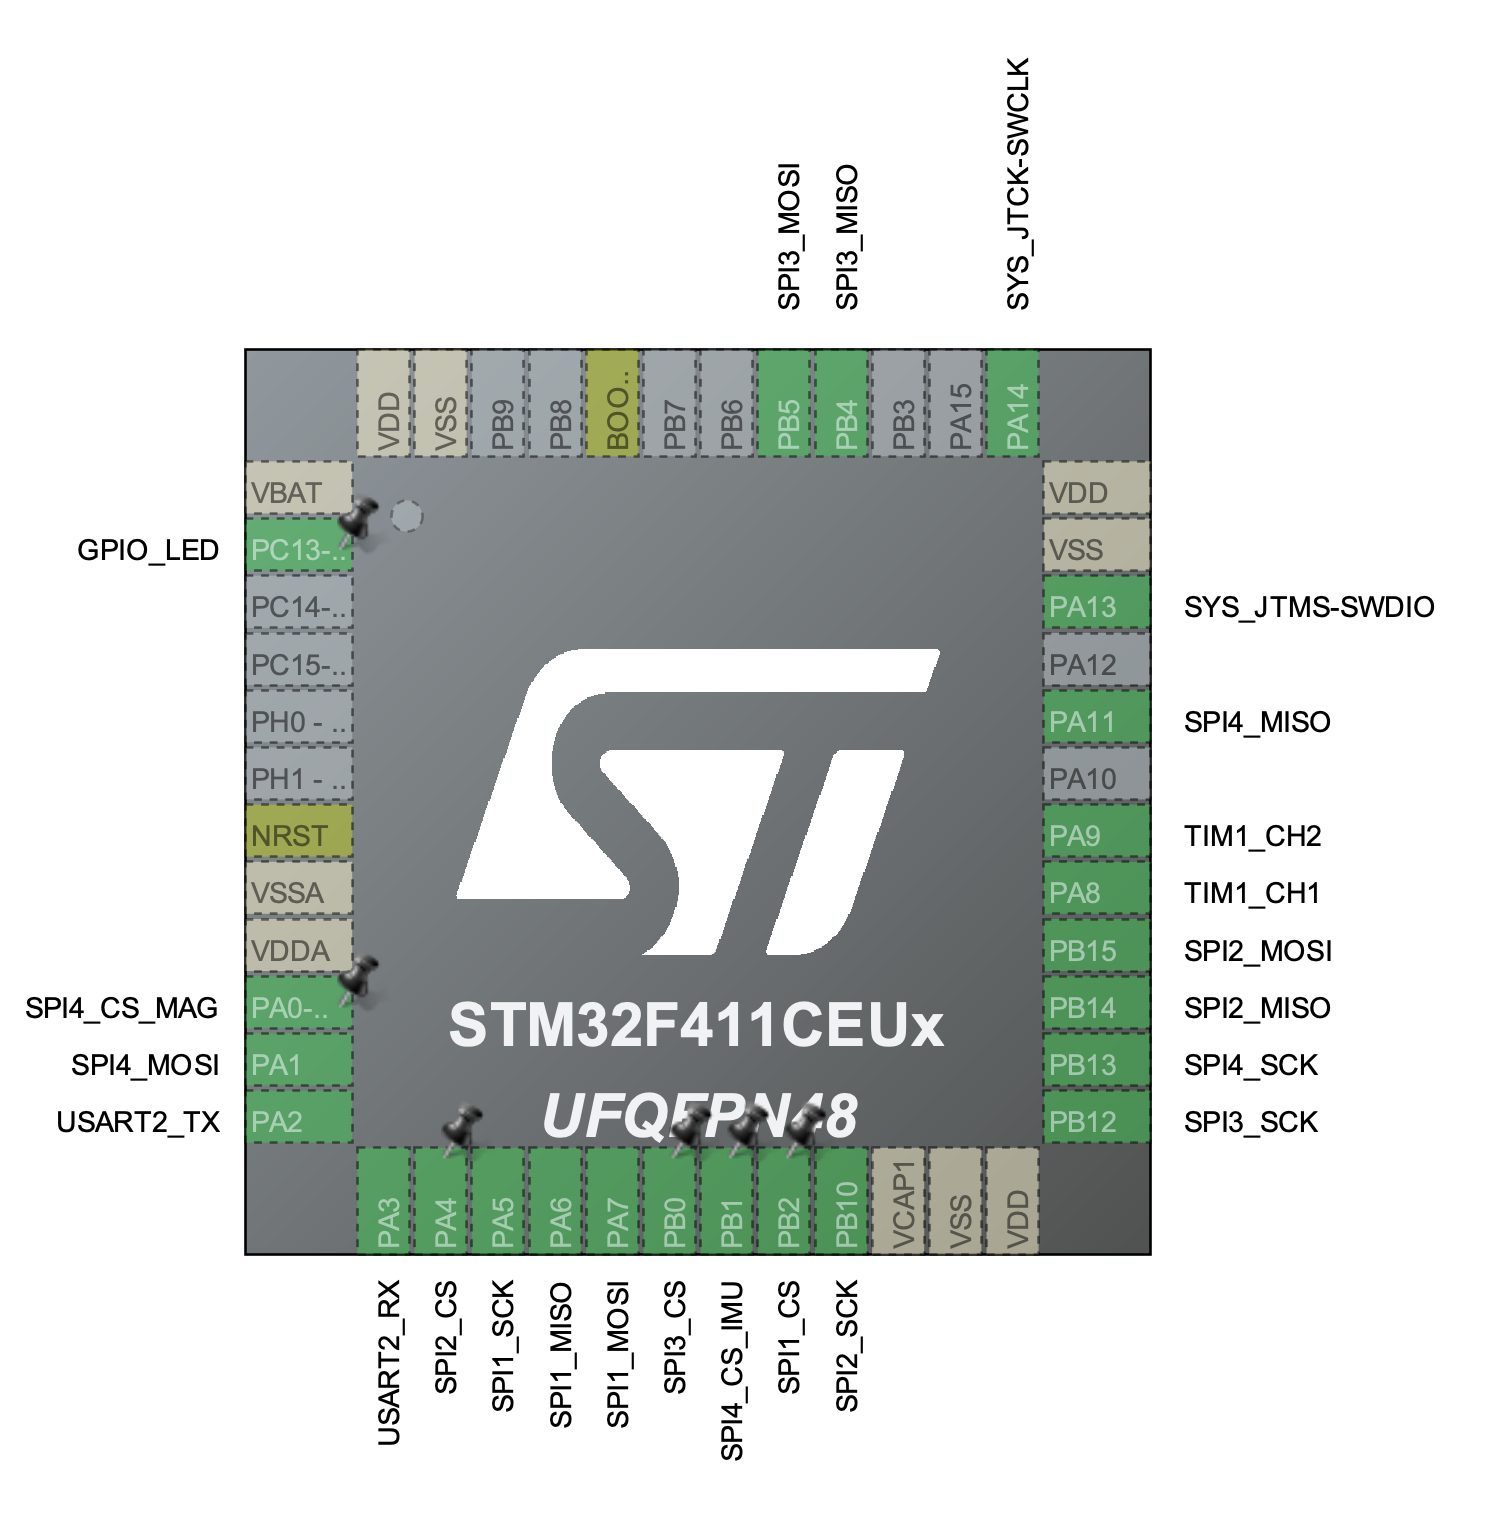
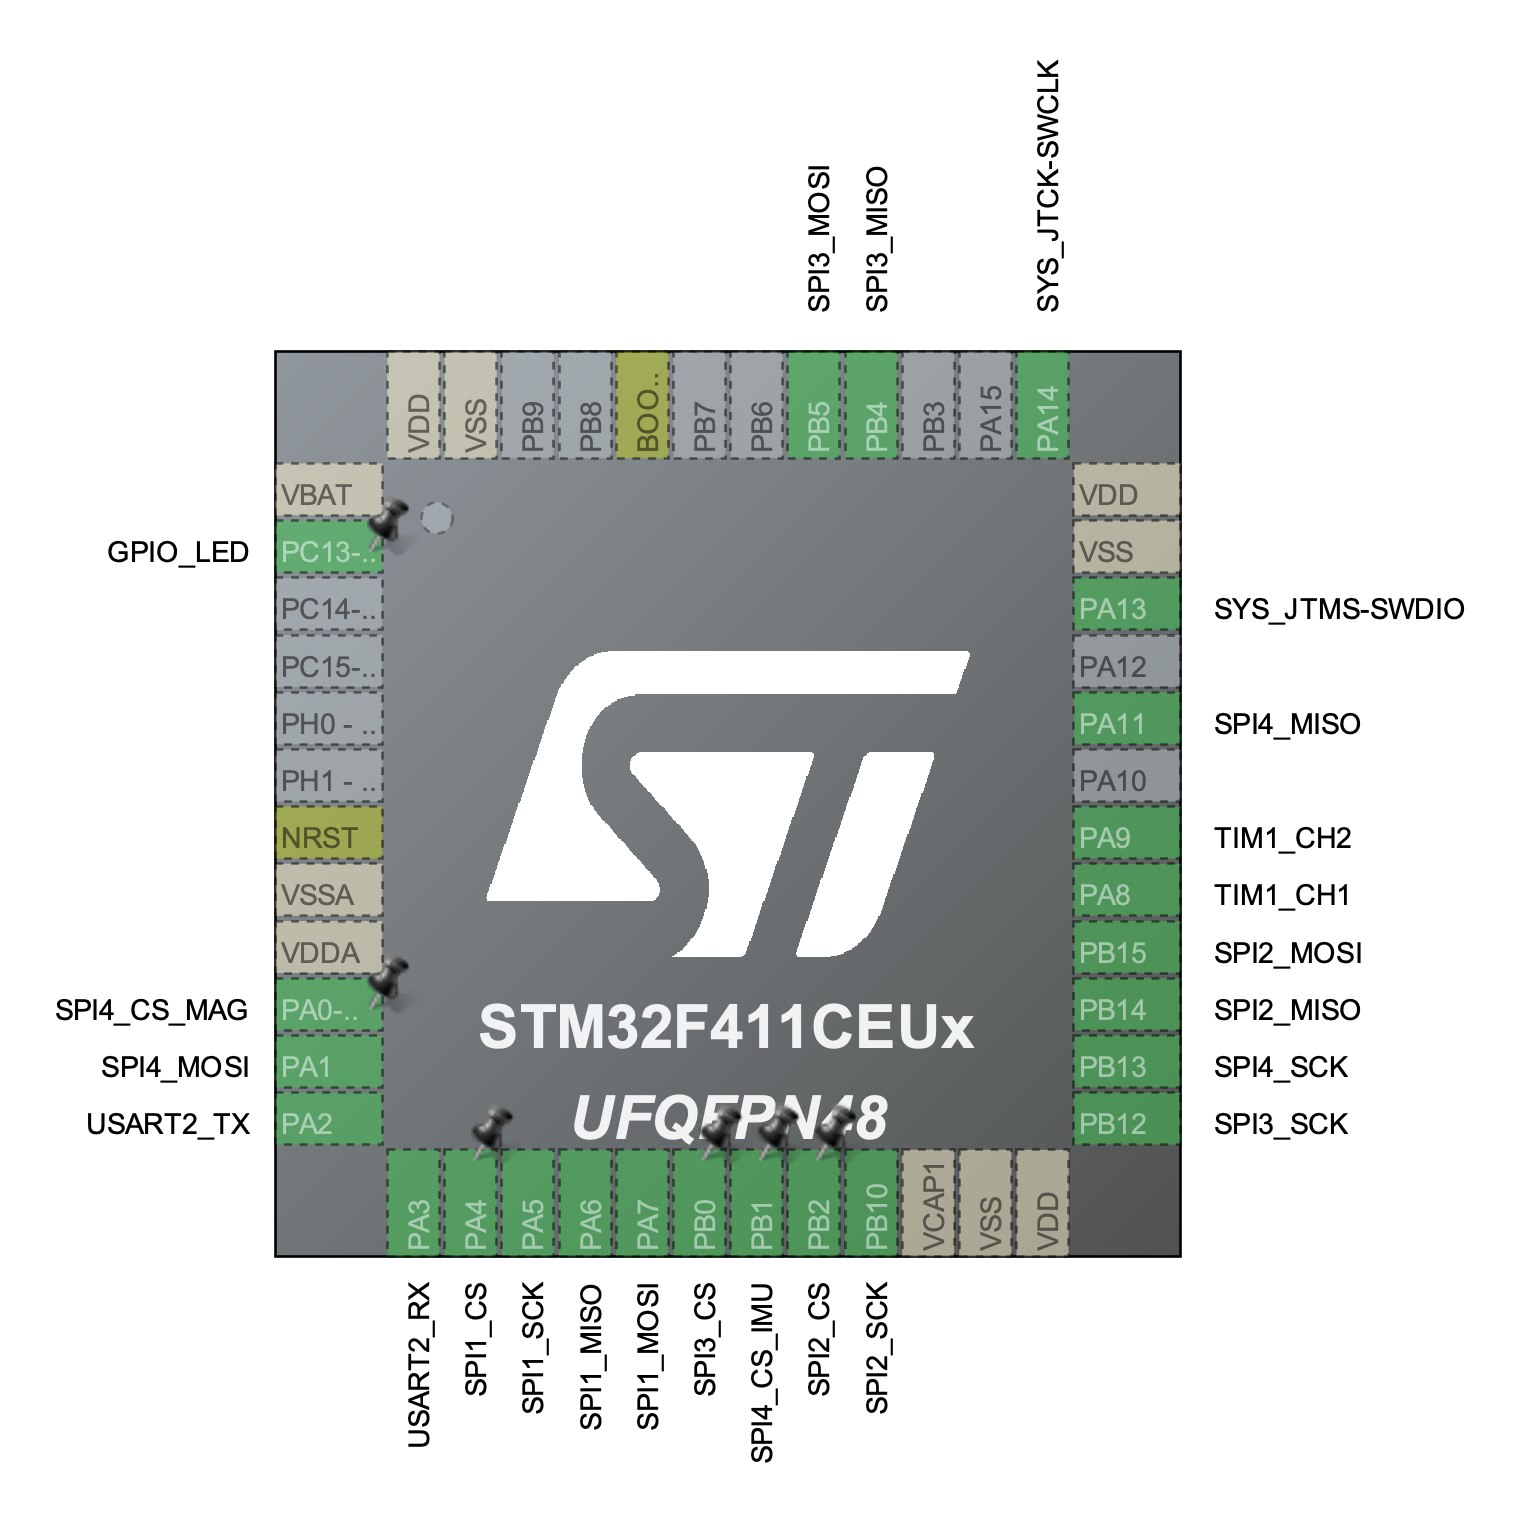
docs: update pin setup and clock config

Changed region(s): [[0.0, 0.0309, 0.9596, 0.9573], [0.6191, 0.4323, 0.6501, 0.4632]]

diff --git a/README.md b/README.md
@@ -27,8 +27,8 @@ The pin configuration is set up as follows:
 Additionally, for the pins setup as GPIO output, the definitions are as follows:
 | Pin | Peripheral |
 |-----|------------|
-| PB2 | SPI1 CS |
-| PA4 | SPI2 CS |
+| PB2 | SPI2 CS |
+| PA4 | SPI1 CS |
 | PB0 | SPI3 CS |
 | PB1 | SPI4 CS IMU |
 | PA0 | SPI4 CS Mag |
@@ -96,6 +96,6 @@ For backwards compatibility with the Nucleo boards, the **USART2 peripheral** is
 ### Clock Configuration
 
 The system is configured to use the internal oscillators (HSI/LSI) with the following configuration:
-- **System Clock**: 16 MHz direct from HSI, no PLL
+- **System Clock**: 50 MHz from PLL
 - **RTC Clock**: 32 KHz direct from LSI
-- **AHB/APB1/APB2/etc.**: All clocks @ 16 MHz, no division
+- **AHB/APB1/APB2/etc.**: All clocks @ 50 MHz, no division
